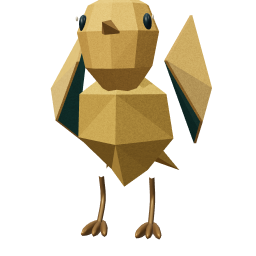
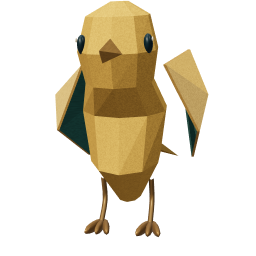
Build continuous paper figures and individual navigator details

Changed region(s): [[0.1875, 0.0, 0.8438, 0.9375]]

diff --git a/src/scene/proxies.ts b/src/scene/proxies.ts
@@ -87,9 +87,12 @@ export function makeProxy(character: Character, kit: SceneKit): THREE.Group {
       sculpt(book, 'tuft', gold, [-.035, .025, .055], [.065, .10, .017], [0, 0, .6], 'brass');
       sculpt(book, 'tuft', gold, [.035, .055, .055], [.065, .10, .017], [0, 0, -.6], 'brass');
       data.arms.forEach((arm, index) => {
-        const sign=index?1:-1;arm.rotation.z=sign*-.64;
+        const sign=index?1:-1;
         arm.position.z=.19;arm.position.y=.04;
+        arm.children[0].scale.set(.18,.32,.20);arm.children[1].scale.set(.15,.15,.17);
         sculpt(arm,'limb',gold,[0,-.22,.026],[.185,.028,.20],undefined,'brass');
+        const angle=sign*-.80,axis=new THREE.Vector3(0,0,1);
+        for(const part of arm.children){part.position.applyAxisAngle(axis,angle);part.rotation.z+=angle;}
       });
       head.position.y-=body.position.y;body.add(head);
       const expression=joint(group,'book-expression',[0,.70,0]);
@@ -140,7 +143,7 @@ export function makeProxy(character: Character, kit: SceneKit): THREE.Group {
       if (leader) { body.position.y = .70; data.bodyY = .70; head.position.y = 1.30; data.headY = 1.30; }
       if (id === 'bridge-scout') {body.position.y=.40;data.bodyY=.40;head.position.y=.84;data.headY=.84;}
       if (wayfinder) {body.position.y=id==='intake-jarvis'?.535:.49;data.bodyY=body.position.y;head.position.y=id==='intake-jarvis'?1.02:.95;data.headY=head.position.y;}
-      sculpt(body, wayfinder ? 'torso' : leader ? 'merchantTorso' : id==='bridge-scout'?'owlBody':'torso', bodyColor, [0, -.005, 0], [wayfinder ? .85 : leader ? .79 : id==='bridge-scout'?.70:.64, leader ? 1.04 : id === 'intake-jarvis' ? 1.06 : wayfinder ? .96 : id==='bridge-scout' ? .58 : .87, wayfinder ? .64 : leader ? .54 : id==='bridge-scout'?.56:.50], undefined, 'glaze');
+      sculpt(body, wayfinder ? 'wayfinderBody' : leader ? 'merchantTorso' : id==='bridge-scout'?'owlBody':'torso', bodyColor, [0, -.005, 0], [wayfinder ? .85 : leader ? .79 : id==='bridge-scout'?.70:.64, leader ? 1.04 : id === 'intake-jarvis' ? 1.06 : wayfinder ? .96 : id==='bridge-scout' ? .58 : .87, wayfinder ? .64 : leader ? .54 : id==='bridge-scout'?.56:.50], undefined, 'glaze');
       if(leader) sculpt(body,'merchantBase','#bb673a',[0,-.58,0],[.73,.24,.56],undefined,'glaze');
       sculpt(body, 'limb', wayfinder ? '#b6aa8c' : bodyColor, [0, .35, 0], [.18, .15, .18]);
       const headColor = wayfinder ? cream : bodyColor;
@@ -211,8 +214,10 @@ export function makeProxy(character: Character, kit: SceneKit): THREE.Group {
             });
           }
         } else {
+          sculpt(body,'bean','#b4844a',[0,.125,.273],[.275,.275,.027],undefined,'brass');
           ring(body, '#e0bb7a', .25, [0, .125, .280]);
           stroke(body, '#e0bb7a', [[-.085, .11, .29], [-.045, .16, .29], [0, .17, .29], [.045, .16, .29], [.085, .11, .29]], .010);
+          stroke(body,'#e0bb7a',[[-.113,.103,.293],[.113,.103,.293]],.007);
           const outline=stroke(body, '#854124', [[-.23, .32, .25], [-.26, -.14, .22], [0, -.44, .15], [.26, -.14, .22], [.23, .32, .25]], .006, 'clay');
           fitCharacterRelief(outline,body.children[0] as THREE.Mesh);
           sculpt(head, 'limb', '#aa7442', [0, .394, 0], [.04, .14, .04], undefined, 'brass');
@@ -224,7 +229,15 @@ export function makeProxy(character: Character, kit: SceneKit): THREE.Group {
         sculpt(head, 'detail', wayfinder ? '#b5a78c' : bodyColor, [sign * .463, -.01, 0], [.045, .117, .117], undefined, 'glaze');
       });
       limbs(bodyColor, wayfinder ? '#e7ddc8' : leader ? bodyColor : '#e2d6b7');
-      if(wayfinder) data.arms.forEach((arm,index)=>{arm.position.x=(index?1:-1)*.33;arm.position.y=.11});
+      if(wayfinder) data.arms.forEach((arm,index)=>{
+        const sign=index?1:-1;arm.position.x=sign*.385;arm.position.y=.11;arm.position.z=.025;
+        arm.children[0].scale.set(.15,.44,.22);arm.children[0].position.y=-.13;
+        arm.children[1].scale.set(.15,.13,.18);arm.children[1].position.y=-.30;
+        sculpt(arm,'detail','#2d4250',[sign*.025,-.05,.116],[.085,.23,.025],[0,sign*.4,0],'clay');
+      });
+      if(wayfinder&&id!=='intake-jarvis'){
+        stroke(body,'#c3ad83',[[-.275,.19,.30],[-.255,-.04,.32],[-.15,-.16,.32],[0,-.20,.32],[.15,-.16,.32],[.255,-.04,.32],[.275,.19,.30]],.005,'clay');
+      }
       if(wayfinder) for(const ornament of body.children) {
         if(ornament===body.children[0] || ['cape','cape-trim','wing','arm_l','arm_r','limb','circuit-bib','lighthouse-emblem'].includes(ornament.name))continue;
         fitCharacterRelief(ornament,body.children[0] as THREE.Mesh,id==='intake-compass'?.036:.012);
@@ -236,8 +249,8 @@ export function makeProxy(character: Character, kit: SceneKit): THREE.Group {
     if (support) {
       // Beacon's source is an embracing conversation lantern with a solid green
       // shell, not an exposed bulb held between metal rails.
-      body.position.y = .38; data.bodyY = .38; head.position.y = .94; data.headY = .94;
-      sculpt(body, 'owlBody', green, [0, -.005, 0], [.68, .62, .50], undefined, 'glaze');
+      body.position.y = .34; data.bodyY = .34; head.position.y = .88; data.headY = .88;
+      sculpt(body, 'owlBody', green, [0, -.005, 0], [.68, .56, .50], undefined, 'glaze');
       sculpt(head, 'helmet', green, [0, 0, 0], [.80, .75, .61], undefined, 'glaze');
       const radii: [number, number, number] = [.424, .375, .305];
       curvedFace(kit, head, '#c19445', .60, .465, .009, [0, -.002, 0], 'brass', radii, true);
@@ -248,7 +261,7 @@ export function makeProxy(character: Character, kit: SceneKit): THREE.Group {
       ring(head, green, .25, [0, .564, -.008]);
       [-1, 1].forEach(sign => {
         const arm = joint(body, sign < 0 ? 'arm_l' : 'arm_r', [sign * .215, .10, .06]);
-        sculpt(arm, 'limb', green, [sign * -.075, -.06, .15], [.21, .39, .21], [0, 0, sign * -.78], 'glaze'); data.arms.push(arm);
+        sculpt(arm, 'bean', green, [sign * -.085, -.065, .15], [.34, .23, .23], [0, 0, sign * .55], 'glaze'); data.arms.push(arm);
         const foot = joint(group, sign < 0 ? 'foot_l' : 'foot_r', [sign * .12, .05, .02]);
         sculpt(foot, 'bean', green, [0, 0, 0], [.24, .10, .26], undefined, 'glaze'); data.feet.push(foot);
       });
@@ -277,21 +290,19 @@ export function makeProxy(character: Character, kit: SceneKit): THREE.Group {
     body.position.y = navy?.49:.41; data.bodyY = body.position.y; head.position.y = navy?.91:.81; data.headY = head.position.y;
     if(navy)head.position.z=.065;
     sculpt(body, navy ? 'owlBody' : 'paperBody', feathers, [0, 0, 0], [.70, navy?.83:.70, navy?.55:.62], undefined, navy ? 'feather' : 'paper');
-    sculpt(head, navy ? 'owlHead' : id==='reflection-echo'?'paperEchoHead':'paperQuillHead', navy ? feathers : id === 'reflection-echo' ? '#c7aa83' : '#cfb18a', [0, 0, 0], [.78, .65, .54], undefined, navy ? 'feather' : 'paper');
+    sculpt(head, navy ? 'owlHead' : id==='reflection-echo'?'paperEchoHead':'paperQuillHead', navy ? feathers : '#ffffff', [0, 0, 0], [.78, .65, .54], undefined, navy ? 'feather' : 'paper');
     [-1, 1].forEach(sign => {
       if (navy) curvedFace(kit, head, '#f0e3c6', .365, .43, .013, [sign * .169, -.006, 0], 'facialFeather', [.417, .325, .27],false,undefined,.43,sign);
-      else {
-        sculpt(head, sign<0?'paperDiscL':'paperDisc', '#edd6b0', [sign * .157, -.012, .283], [.365, .42, .022], [0, sign * .36, sign * -.06], 'paper');
-      }
       if (navy) sculpt(head, 'bean', '#c49b54', [sign * .162, .002, .289], [.193, .220, .051], undefined, 'brass');
-      if (id === 'reflection-quill') data.eyes.push(characterEyeArc(kit, head, '#524334', [sign * .162, .015, .307], .047, .028));
+      if (id === 'reflection-quill') data.eyes.push(characterEyeArc(kit, head, '#524334', [sign * .162, .015, .257], .047, .028));
       else {
-        const eye = sculpt(head, 'bean', navy ? '#13252d' : '#302c22', [sign * .162, .011, navy?.313:.300], [navy ? .143 : .092, navy ? .166 : .110, .045], undefined, 'ink'); data.eyes.push(eye);
-        data.highlights.push(sculpt(head, 'detail', '#fff9e7', [sign * .162 - (navy?.025:.016), navy?.053:.043, navy?.330:.322], [navy?.035:.023, navy?.043:.028, .010], undefined, 'glaze'));
+        const eye = sculpt(head, 'bean', navy ? '#13252d' : '#302c22', [sign * .162+(navy?.014:0), .011, navy?.313:.250], [navy ? .126 : .092, navy ? .151 : .110, .045], undefined, 'ink'); data.eyes.push(eye);
+        data.highlights.push(sculpt(head, 'detail', '#fff9e7', [sign * .162 - (navy?.008:.016), navy?.053:.043, navy?.330:.272], [navy?.030:.023, navy?.037:.028, .010], undefined, 'glaze'));
       }
       if (navy) sculpt(head, sign < 0 ? 'owlBrowL' : 'owlBrowR', '#26394f', [sign * .18, .255, .045], [.85,1.35,1.25], [0,0,sign*.10], 'feather');
       const wing = joint(body, sign < 0 ? 'wing_l' : 'wing_r', [sign * .315, .12, -.025]);
-      sculpt(wing, navy ? 'wing' : 'paperWing', navy ? '#31485e' : '#d0bea0', [sign * .015, -.145, 0], [.205, .53, .30], [0, 0, sign * .23], navy ? 'feather' : 'paper');
+      if(navy) sculpt(wing,'wing','#31485e',[sign*.015,-.145,0],[.205,.53,.30],[0,0,sign*.23],'feather');
+      else sculpt(wing,sign<0?'paperOwlWingL':'paperOwlWingR',id==='reflection-quill'?'#cbb48e':'#ceb690',[0,0,0],[1,1,1],undefined,'paper');
       if (navy) {
         sculpt(wing, sign < 0 ? 'featherFanL' : 'featherFanR', '#30465e', [0, -.035, 0], [1, 1, 1], undefined, 'feather');
       }
@@ -302,7 +313,7 @@ export function makeProxy(character: Character, kit: SceneKit): THREE.Group {
       data.feet.push(foot);
     });
     if(navy) sculpt(head,'paperBeak',gold,[0,-.080,.311],[.77,.85,.67],[.75,0,0],'brass');
-    else sculpt(head,'paperBeak',gold,[0,-.077,.330],[.7,.9,.47],[.65,0,0],'paper');
+    else sculpt(head,'paperBeak',gold,[0,-.077,.243],[.7,.9,.47],[.65,0,0],'paper');
     if (id === 'reflection-quill') {
       kit.mesh(body, 'detailCylinder', '#c99c4a', [.35, .01, .19], [.042, .48, .042], [0, 0, -.35]).name='quill-pencil';
       sculpt(body, 'beak', '#514d42', [.27, -.216, .19], [.040, .075, .040], [0, 0, Math.PI - .35]);
@@ -319,20 +330,22 @@ export function makeProxy(character: Character, kit: SceneKit): THREE.Group {
   } else {
     // Swift's split tail, creased ochre wings and teal folded edge are solid
     // low-poly paper surfaces rather than flattened ceramic spheres.
-    body.position.y = .32; data.bodyY = .32; body.rotation.x=.10;head.position.set(0,.61,.09); data.headY = .61;head.scale.set(.80,.72,.80);head.rotation.x=.12;
-    sculpt(body, 'swiftBody', '#cda44e', [0, .035, 0], [.98, .86, .86], [0, 0, 0], 'paper');
-    sculpt(head, 'swiftHead', '#d9a854', [0, 0, .045], [1, 1, 1], undefined, 'paper');
+    body.position.y = .32; data.bodyY = .32;head.position.set(0,.62,.06); data.headY = .62;
+    sculpt(body, 'swiftBody', '#d2a34c', [0,0,0], [1,1,1], undefined, 'paper');
     [-1, 1].forEach(sign => {
       const wing = joint(body, sign < 0 ? 'wing_l' : 'wing_r', [sign * .14, .14, -.03]);
-      sculpt(wing, sign < 0 ? 'swiftWingL' : 'swiftWingR', '#ffffff', [0, 0, 0], [1, 1, 1], undefined, 'paper');data.wings.push(wing);
-      const eye = sculpt(head, 'bean', ink, [sign * .113, .070, .125], [.067,.074,.032], [0,sign*Math.PI/2,0], 'ink'); data.eyes.push(eye);
-      data.highlights.push(sculpt(head, 'detail', '#fff2d4', [sign*.134,.091,.14], [.008,.019,.019], undefined, 'glaze'));
+      sculpt(wing, sign < 0 ? 'swiftWingL' : 'swiftWingR', '#ffffff', [0, 0, 0], [1, 1, 1], [-.22,0,0], 'paper');data.wings.push(wing);
+      const eye = sculpt(head, 'bean', ink, [sign * .098, .041, .117], [.052,.059,.028], [0,sign*Math.PI/2,0], 'ink'); data.eyes.push(eye);
+      data.highlights.push(sculpt(head, 'detail', '#fff2d4', [sign*.112,.056,.127], [.006,.013,.013], undefined, 'glaze'));
       const foot = joint(group, sign < 0 ? 'foot_l' : 'foot_r', [sign * .085, .018, .03]);
       [-1,0,1].forEach(toe=>sculpt(foot,'toe','#967140',[toe*.02,0,.02],[.025,.036,.15],[0,toe*.24,0],'brass'));
       stroke(foot,'#957446',[[0,.16,-.04],[0,.075,-.07],[0,.008,0]],.009,'brass'); data.feet.push(foot);
     });
-    sculpt(head,'paperBeak','#a57d40',[0,.045,.190],[.55,.56,.68],undefined,'paper');
+    sculpt(head,'paperBeak','#a57d40',[0,.033,.184],[.50,.48,.64],undefined,'paper');
     sculpt(body,'swiftTail','#ffffff',[0,-.125,-.17],[1,1,1],undefined,'paper');
+    head.position.y-=body.position.y;body.add(head);
+    const expression=joint(group,'paper-bird-expression',[0,.40,0]);body.position.y-=.40;expression.add(body);expression.rotation.x=.23;
+    data.head=expression;data.headY=.40;data.bodyY=body.position.y;
   }
   if(id==='bridge-scout'){
     head.rotation.z=.075;
@@ -350,6 +363,7 @@ export function makeProxy(character: Character, kit: SceneKit): THREE.Group {
   if(wayfinder)head.rotation.z=id==='intake-beacon'?-.095:id==='intake-relay'?.045:id==='intake-compass'?.11:-.025;
   if(id==='reflection-echo')head.rotation.z=-.07;
   if(id==='reflection-quill')head.rotation.z=.045;
+  if(id==='email-owl'){head.rotation.z=-.06;head.rotation.y=.055;}
   data.restHead=data.head.rotation.clone();
   data.eyes.forEach(eye => { eye.userData.restEyeY = eye.scale.y; });
   data.feet.forEach(foot => { foot.userData.restFootY = foot.position.y; foot.userData.restFootZ = foot.position.z; });

diff --git a/src/scene/characterGeometry.ts b/src/scene/characterGeometry.ts
@@ -4,11 +4,12 @@ import type { SceneKit } from './primitives';
 export type CharacterForm = 'torso' | 'helmet' | 'owlBody' | 'owlHead' | 'wing' | 'tuft'
   | 'lanternGlass' | 'lanternCap' | 'lanternBase' | 'sphere' | 'bean' | 'detail' | 'limb' | 'ankle' | 'beak' | 'ring' | 'heart'
   | 'book' | 'cloak' | 'cape' | 'capePanel' | 'feather' | 'toe' | 'paperBody' | 'paperEchoHead' | 'paperQuillHead' | 'paperWing' | 'paperTail' | 'paperDisc' | 'paperDiscL' | 'pageFold' | 'hoodTip' | 'scroll'
-  | 'spiritBody' | 'spiritHood' | 'spiritRelayHood' | 'merchantTorso' | 'swiftBody' | 'swiftHead' | 'swiftTail' | 'swiftWingL' | 'swiftWingR'
+  | 'spiritBody' | 'spiritHood' | 'spiritRelayHood' | 'merchantTorso' | 'swiftBody' | 'swiftHead' | 'swiftTail' | 'swiftWingL' | 'swiftWingR' | 'paperOwlWingL' | 'paperOwlWingR' | 'wayfinderBody'
   | 'owlBrowL' | 'owlBrowR' | 'featherFanL' | 'featherFanR' | 'breastFeathers' | 'hexGlass' | 'hexCap' | 'fineRing' | 'compassStar' | 'compassNeedle' | 'paperBeak' | 'pageCorner' | 'merchantBase' | 'spiritFigure' | 'spiritLens' | 'spiritRelay' | 'compassCowl' | 'lensCowl' | 'relayCowl';
 export type CharacterFinish = 'clay' | 'glaze' | 'ink' | 'brass' | 'amber' | 'paper' | 'feather' | 'facialFeather';
 type Tuple = [number, number, number];
 const torsoProfile: Array<[number, number]> = [[0, -.5], [.32, -.48], [.45, -.37], [.50, -.10], [.49, .16], [.43, .34], [.29, .45], [.14, .49], [0, .5]];
+const wayfinderProfile: Array<[number,number]>=[[0,-.5],[.22,-.48],[.42,-.37],[.51,-.10],[.49,.13],[.39,.34],[.25,.46],[0,.5]];
 interface CharacterResources {
   geometry: Map<string, THREE.BufferGeometry>;
   material: Map<string, THREE.MeshStandardMaterial>;
@@ -194,11 +195,17 @@ function foldedBirdVolume(rings:Array<[number,number,number,number]>):THREE.Buff
 }
 
 function swiftWing(): THREE.BufferGeometry {
-  const boundary:Tuple[]=[[0,.10,.10],[.07,.27,-.38],[.065,-.018,-.18],[.09,-.23,-.29],[.11,-.10,-.005]];
+  const boundary:Tuple[]=[[0,.10,.10],[.07,.20,-.43],[.065,-.045,-.20],[.09,-.26,-.37],[.11,-.12,.02]];
   const vertices:Tuple[]=[...boundary,[.14,.005,-.06],...boundary.map(([x,y,z])=>[x-.009,y,z] as Tuple)];
-  const faces:number[][]=[[0,5,1],[1,5,2],[2,5,3],[3,5,4],[4,5,0],[6,7,8,9,10]];
+  const faces:number[][]=[[0,5,1],[1,5,2],[2,5,3],[3,5,4],[4,5,0],[6,7,8],[6,8,10],[8,9,10]];
   for(let i=0;i<5;i++){const j=(i+1)%5;faces.push([i,j,j+6,i+6]);}
-  return polyhedron(vertices,faces,['#e0b15e','#d5a24e','#47736b','#d7ab59','#e5bc74','#3c6d68','#b38948','#47736b','#3b6e65','#c59854','#b68b45']);
+  return polyhedron(vertices,faces,['#e0b15e','#d5a24e','#47736b','#d7ab59','#e5bc74','#3c6d68','#3c6d68','#3c6d68','#b38948','#47736b','#3b6e65','#c59854','#b68b45']);
+}
+
+/** Folded shoulders wrap around the belly and meet a tucked lower wing tip. */
+function paperOwlWing():THREE.BufferGeometry {
+  return polyhedron([[.015,.18,.10],[.115,-.06,.07],[.02,-.40,.10],[-.18,-.30,.22],[-.16,.01,.28],[-.04,-.10,.32],[-.025,.15,-.12],[.10,-.08,-.13],[-.01,-.37,-.03]],
+    [[0,1,5],[1,2,5],[2,3,5],[3,4,5],[4,0,5],[0,6,7,1],[1,7,8,2],[2,8,3],[3,8,7,6,4],[4,6,0]]);
 }
 
 /** Folded volumes close into a tapered back, not an extruded cardboard slab. */
@@ -206,12 +213,23 @@ function paperOwlHead(quill=false): THREE.BufferGeometry {
   const outline:Array<[number,number]>=quill?
     [[-.41,-.26],[-.30,-.45],[.22,-.45],[.47,-.13],[.45,.24],[.54,.51],[.19,.34],[-.08,.39],[-.48,.53],[-.44,.14]]:
     [[-.44,-.22],[-.27,-.43],[.25,-.44],[.47,-.10],[.42,.28],[.23,.48],[-.23,.44],[-.47,.14]];
-  const vertices:Tuple[]=outline.map(([x,y])=>[x,y,.30+(.4-Math.abs(x))*.12]);
-  vertices.push(...outline.map(([x,y])=>[x*.87,y*.88,-.29] as Tuple));
-  vertices.push([-.025,.06,.52],[0,.03,-.39]);
-  const n=outline.length,faces:number[][]=[];
-  for(let i=0;i<n;i++){const j=(i+1)%n;faces.push([i,j,2*n],[i,n+i,n+j],[i,n+j,j],[n+j,n+i,2*n+1]);}
-  return polyhedron(vertices,faces);
+  const cheek:Array<[number,number]>=[[.012,.04],[.075,.26],[.24,.31],[.38,.16],[.42,-.055],[.26,-.35],[.014,-.40]];
+  const holes=[cheek.map(([x,y])=>new THREE.Vector2(-x,y)),cheek.map(([x,y])=>new THREE.Vector2(x,y))];
+  const outer=outline.map(([x,y])=>new THREE.Vector2(x,y));
+  const points=[...outer,...holes.flat()];
+  const vertices:Tuple[]=points.map((p,i)=>[p.x,p.y,i<outline.length?.30+(.4-Math.abs(p.x))*.12:.45-.10*Math.abs(p.x)]);
+  const faces=THREE.ShapeUtils.triangulateShape(outer,holes),colors:string[]=faces.map(()=>quill?'#cfb18a':'#c7aa83');
+  for(let side=0;side<2;side++){
+    const center=vertices.length;vertices.push([side?.18:-.18,-.015,.46]);
+    for(let i=0;i<cheek.length;i++){const a=outline.length+side*cheek.length+i,b=outline.length+side*cheek.length+(i+1)%cheek.length;faces.push([a,b,center]);colors.push('#edd6b0');}
+  }
+  const back=vertices.length;vertices.push(...outline.map(([x,y])=>[x*.87,y*.88,-.29] as Tuple));
+  const rearCenter=vertices.length;vertices.push([0,.03,-.39]);
+  for(let i=0;i<outline.length;i++){
+    const j=(i+1)%outline.length;faces.push([i,back+i,back+j],[i,back+j,j],[back+j,back+i,rearCenter]);
+    colors.push('#c1a582','#d0b591','#ba9e7a');
+  }
+  return polyhedron(vertices,faces,colors);
 }
 
 function paperOwlBody(): THREE.BufferGeometry {
@@ -220,11 +238,11 @@ function paperOwlBody(): THREE.BufferGeometry {
     [[-.40,-.03,.34],[.39,-.08,.34],[.50,.02,-.06],[.26,-.03,-.43],[-.29,.03,-.43],[-.50,.08,-.08]],
     [[-.27,.34,.27],[.26,.35,.27],[.34,.36,-.03],[.17,.36,-.29],[-.20,.35,-.30],[-.35,.32,-.02]],
   ];
-  const vertices=rings.flat();vertices.push([0,.49,0],[0,-.5,-.04],[-.04,-.24,.36],[-.04,.20,.38]);
+  const vertices=rings.flat();vertices.push([0,.49,0],[0,-.5,-.04],[-.08,-.01,.41],[.09,-.5,.17]);
   const faces:number[][]=[];
   for(let r=0;r<2;r++)for(let i=0;i<6;i++){
     const j=(i+1)%6;
-    if(i===0){faces.push([r*6,r*6+1,(r+1)*6+1],[(r+1)*6+1,(r+1)*6,r*6]);}
+    if(i===0){if(r===0)faces.push([6,0,20],[0,21,20],[21,1,20],[1,7,20]);else faces.push([12,6,20],[12,20,13],[13,20,7]);}
     else faces.push([r*6+i,r*6+j,(r+1)*6+j],[(r+1)*6+j,(r+1)*6+i,r*6+i]);
   }
   for(let i=0;i<6;i++){const j=(i+1)%6;faces.push([12+i,12+j,18],[j,i,19]);}
@@ -327,6 +345,7 @@ function featherFan(sign: number, breast = false): THREE.BufferGeometry {
 function makeGeometry(form: CharacterForm): THREE.BufferGeometry {
   switch (form) {
     case 'torso': return softLathe(torsoProfile);
+    case 'wayfinderBody': return softLathe(wayfinderProfile);
     case 'helmet': return helmet();
     case 'owlHead': return helmet(true);
     case 'owlBody': return softLathe([[0, -.5], [.25, -.47], [.42, -.30], [.5, -.02], [.48, .20], [.35, .42], [0, .5]]);
@@ -352,6 +371,8 @@ function makeGeometry(form: CharacterForm): THREE.BufferGeometry {
     case 'paperBody': return paperOwlBody();
     case 'paperEchoHead': return paperOwlHead();
     case 'paperQuillHead': return paperOwlHead(true);
+    case 'paperOwlWingR': return paperOwlWing();
+    case 'paperOwlWingL': return reflect(paperOwlWing());
     case 'paperWing': return folded([[-.50, .43], [-.18, -.50], [.35, -.34], [.50, .36], [.12, .18]], .16, .14);
     case 'paperTail': return folded([[-.5, -.5], [0, -.26], [.5, -.5], [.27, .5], [-.27, .5]], .12, .07);
     case 'paperDisc': return folded([[-.48,.08],[-.37,.34],[-.12,.49],[.19,.45],[.41,.26],[.49,-.10],[.20,-.50],[-.23,-.43],[-.42,-.22]], .06, .023);
@@ -363,7 +384,7 @@ function makeGeometry(form: CharacterForm): THREE.BufferGeometry {
     case 'spiritHood': return spiritHood();
     case 'spiritRelayHood': return spiritHood(true);
     case 'merchantTorso': return softLathe([[0, -.50], [.25, -.49], [.32, -.38], [.40, -.16], [.49, .16], [.50, .32], [.42, .46], [0, .5]]);
-    case 'swiftBody': return polyhedron([[0,.24,.05],[0,.13,.20],[-.14,.12,.07],[.14,.12,.07],[0,-.035,.23],[-.16,-.05,.02],[.16,-.05,.02],[0,-.23,.06],[-.065,-.20,-.08],[.065,-.20,-.08],[0,-.08,-.26],[0,.13,-.20]],[[0,2,1],[0,1,3],[1,2,5,4],[1,4,6,3],[4,5,8,7],[4,7,9,6],[2,11,10,5],[3,6,10,11],[5,10,8],[6,9,10],[7,8,10,9],[0,11,2],[0,3,11]]);
+    case 'swiftBody': return foldedBirdVolume([[-.22,.045,.075,-.01],[-.06,.12,.17,.035],[.11,.145,.125,.025],[.22,.108,.13,.105],[.32,.125,.135,.12],[.42,.10,.10,.10],[.46,.028,.035,.065]]);
     case 'swiftHead': return swiftHead();
     case 'swiftTail': return polyhedron([[0,.09,.09],[-.09,.07,.03],[.09,.07,.03],[-.16,-.11,-.28],[.16,-.11,-.28],[0,-.03,-.19],[0,.022,-.12]],[[0,1,3,6],[0,6,4,2],[3,5,6],[4,6,5],[0,2,1],[1,2,4,5,3]],['#cda24d','#dfb65d','#386a65','#386a65','#bd964c','#b88b39']);
     case 'swiftWingL': return reflect(makeGeometry('swiftWingR'));
@@ -383,7 +404,7 @@ function makeGeometry(form: CharacterForm): THREE.BufferGeometry {
     case 'featherFanR': return featherFan(1);
     case 'breastFeathers': return featherFan(1, true);
     case 'hexGlass': {const source=new THREE.CylinderGeometry(.36,.49,1,6),g=source.toNonIndexed();source.dispose();g.computeVertexNormals();return g;}
-    case 'hexCap': {const source=new THREE.CylinderGeometry(.08,.5,1,6),g=source.toNonIndexed();source.dispose();g.computeVertexNormals();return g;}
+    case 'hexCap': {const source=lathe([[0,-.5],[.45,-.5],[.50,-.42],[.48,-.34],[.12,.43],[.08,.5],[0,.5]],6),g=source.toNonIndexed();source.dispose();g.computeVertexNormals();return g;}
     case 'fineRing': return new THREE.TorusGeometry(.5, .027, 6, 28);
     case 'compassStar': return folded([[0, .5], [.07, .13], [.32, .32], [.13, .07], [.5, 0], [.13, -.07], [.32, -.32], [.07, -.13], [0, -.5], [-.07, -.13], [-.32, -.32], [-.13, -.07], [-.5, 0], [-.13, .07], [-.32, .32], [-.07, .13]], .03, .025);
     case 'compassNeedle': return folded([[0,.5],[.085,.09],[.33,0],[.085,-.09],[0,-.5],[-.085,-.09],[-.33,0],[-.085,.09]],.03,.035);
@@ -519,7 +540,7 @@ export function curvedFace(kit: SceneKit, parent: THREE.Object3D, color: string,
     }
     const area=boundary.reduce((sum,[x,y],i)=>{const next=boundary[(i+1)%boundary.length];return sum+x*next[1]-next[0]*y},0);if(area<0)boundary.reverse();
     const vertices: number[] = [], normals: number[] = [], indices: number[] = [], rings = 6;
-    const contour = torsoSurface ? new THREE.SplineCurve(torsoProfile.map(([r, y]) => new THREE.Vector2(r, y))).getPoints(16) : undefined;
+    const contour = torsoSurface ? new THREE.SplineCurve(wayfinderProfile.map(([r, y]) => new THREE.Vector2(r, y))).getPoints(16) : undefined;
     const add = (x: number, y: number) => {
       const px = x + centre[0], py = y + centre[1];
       let surface: number;

diff --git a/docs/AVATAR-DAYLIGHT-REVIEW.md b/docs/AVATAR-DAYLIGHT-REVIEW.md
@@ -22,7 +22,8 @@ The reviewer received no requested score and no instructions to approve.
 | Pass 3 | 7.4/10 | 7.9/10 | 7.7/10 — B |
 | Pass 4 | 7.6/10 | 7.9/10 | 7.8/10 — B |
 | Pass 5 | 7.8/10 | 7.9/10 | 7.9/10 — B |
-| Pass 6 | Pending | Pending | Independent review pending |
+| Pass 6 | 7.8/10 | 8.0/10 | 7.9/10 — B |
+| Pass 7 | Pending | Pending | Independent review pending |
 
 These are subjective visual judgments, not a pixel-similarity measurement.
 The requested acceptance threshold has not yet been met. Pass 1 restored the
@@ -53,6 +54,13 @@ Pass 6 integrates Scout's raised magnifier arm and seated feet, Keeper's
 tilted book and face panel, and Beacon's clasped forearms. It adds distinct
 head posture, tucked paper feet and a notched bird wing, with a restrained
 night fill lift. All 253 tests and the production build pass.
+The sixth review found stronger merchant identity, but still identified
+separate-looking paper heads and bodies, a rigid bird, and generic companion
+clothing. It did not approve the result.
+Pass 7 joins Swift's head and torso, integrates the paper owls' facial planes
+into their head mesh, adds folded shoulder wings, and brings out the intake
+companions' side panels and belly seams. It retains the geometry, clearance,
+and gesture constraints. All 253 tests and the production build pass.
 
 ## Local-clock atmosphere
 
@@ -87,6 +95,8 @@ test suites were stopped during the samples.
 | Pass 5 night | 60.00 | 2.1 ms | 87 | 327,218 |
 | Pass 6 noon | 60.00 | 2.0 ms | 87 | 326,622 |
 | Pass 6 night | 60.00 | 2.2 ms | 87 | 326,622 |
+| Pass 7 noon | 60.00 | 3.1 ms | 87 | 328,332 |
+| Pass 7 night | 60.00 | 3.2 ms | 87 | 328,332 |
 
 The static scene returns to zero scheduled rendering fps. Submission timing is
 JavaScript/renderer time, **not GPU time**. The measurements preserve displayed
